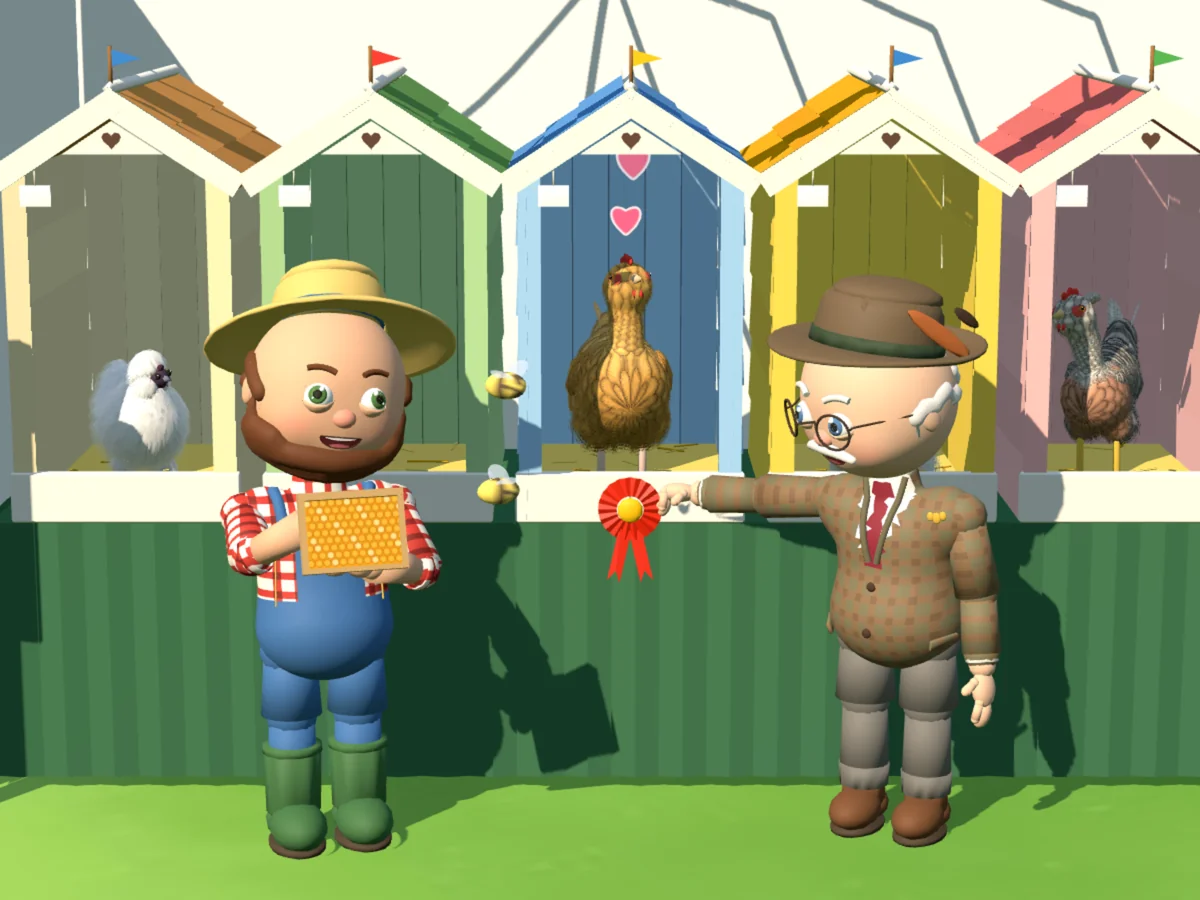
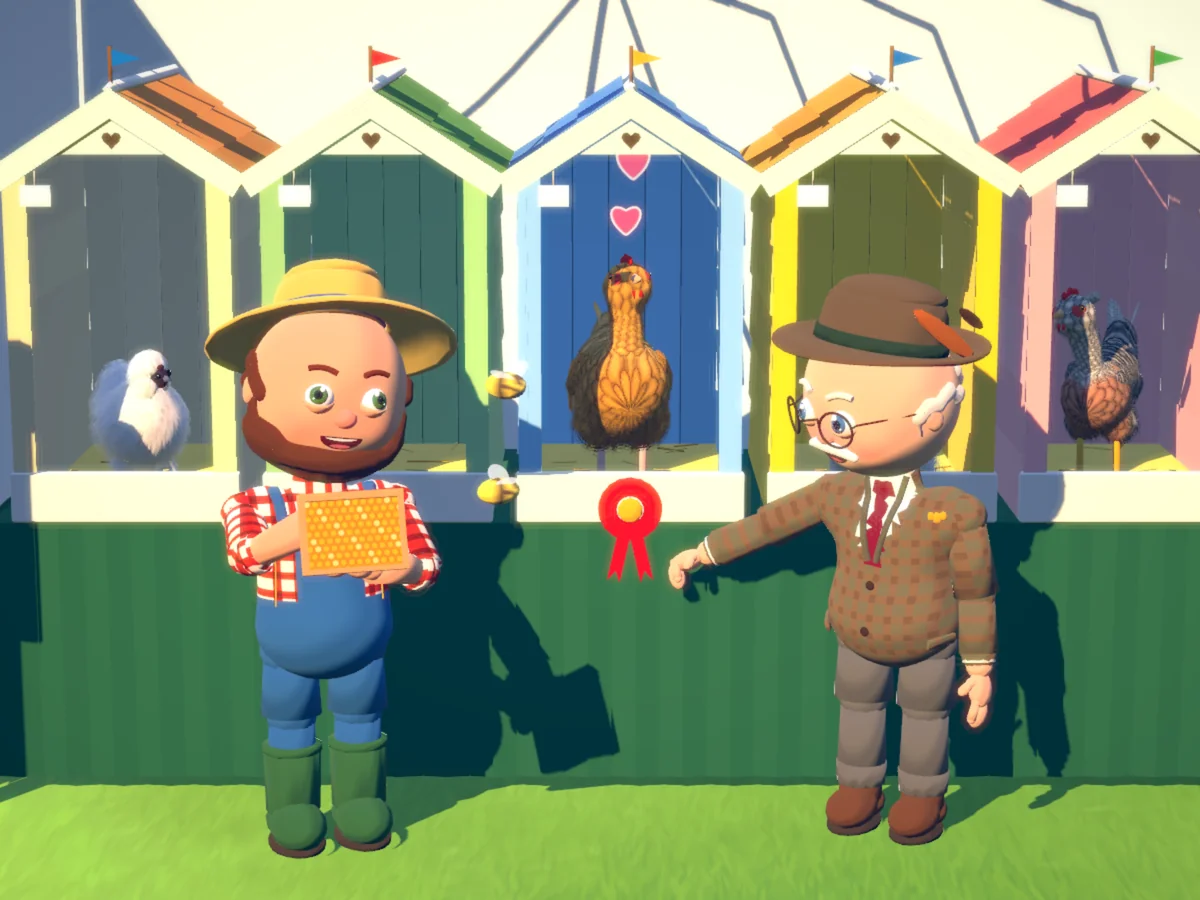
The fox's welcome picture restaged in mid-bound; the five welcome pictures in the Painted look
Claude-Session: https://claude.ai/code/session_019sVPTkk8NWGF5qLvLgiKew

diff --git a/web3d/src/intro.js b/web3d/src/intro.js
@@ -342,6 +342,8 @@ class Intro {
     this.dress(230, { x0: -3.4, x1: 3.4, z0: -4, z1: 2, clear: [[-1.9, -3.1, 0.1, -1.0], [-1.2, -0.6, 2.2, 1.0]], seed: 15, flowers: 0.45 });
     // the Brave hen, out in front of her coop: chest out, wings up, calling after him
     this.bird('rir', 'hen', null, -1.12, 0.62, 0.9, A => { A.proud = 1; A.flap = 1; A.t = 2.3; A.kawk = 1; A.lookYaw = 0.15; A.lookTilt = -0.05; });
+    // (10 Nov 2026, Audrey: "Can you rework that image the fox has a weird pose": shot a tenth of a second later, intropics.mjs T 3.1 for this scene: Rusty stretched out in mid-bound,
+    // his legs apart, where he was caught with them bunched under him; his head turned back less far)
     // Rusty and Biscuit at a run, a paw on the ground (each where the picture wants him at the moment it's shot, SHOT seconds in, having run
     // there at his pace): Rusty looks back over his shoulder, ears back, his brush streaming; Biscuit after him, grinning
     const C = this.ctx, SHOT = 3, fam = { r: this.r, joints: C.beastJoints, out: true, group: new THREE.Group(), foxes: [], visible: () => true };
@@ -351,8 +353,8 @@ class Intro {
       f.at = t => { const back = v * (SHOT - t); f.pos.set(x - Math.sin(heading) * back, 0, z - Math.cos(heading) * back); };
       f.at(0); f.face = face; return f;
     };
-    runner('fox', 'Rusty', 'dad', 1.2, 0.3, 1.4, 1.62, A => { A.lookYawGoal = -1.2; A.lookPitchGoal = 0.05; A.earsGoal = -0.7; A.tailUpGoal = 0.3; A.mouthGoal = 0.15; });
-    runner('collie', 'Biscuit', 'dog', -0.2, 0.75, 1.45, 1.66, A => { A.tailUpGoal = 0.7; A.wagGoal = 0.5; A.mouthGoal = 0.7; A.earsGoal = 0.6; A.wideGoal = 0.3; });
+    runner('fox', 'Rusty', 'dad', 1.04, 0.27, 1.4, 1.62, A => { A.lookYawGoal = -0.75; A.lookPitchGoal = 0.05; A.earsGoal = -0.7; A.tailUpGoal = 0.3; A.mouthGoal = 0.15; });
+    runner('collie', 'Biscuit', 'dog', -0.36, 0.72, 1.45, 1.66, A => { A.tailUpGoal = 0.7; A.wagGoal = 0.5; A.mouthGoal = 0.7; A.earsGoal = 0.6; A.wideGoal = 0.3; });
     fam.nextTask = f => T.wait(1e6, (f, t, dt) => { f.at(Math.min(this.t, SHOT + 0.5)); f.face(f.A); });
     this.restarts = [() => { for (const f of fam.foxes) { f.at(0); f.lastPos = null; } }];
     this.ticks.push(dt => { if (dt > 0) for (const f of fam.foxes) f.update(dt); });

diff --git a/web3d/README.md b/web3d/README.md
@@ -4906,3 +4906,9 @@ KEEPFISH, SEED). All nine built:
   a card keeps its place).
 - Tests: `pantrytest` (EN/FR); `eggtest`, `ordertest`, `awaytest`, `cuddletest`, `wheattest`, `nettest`, `hinttest`,
   `firstdaytest` brought in line.
+
+## The fox's welcome picture restaged (10 Nov 2026, 21:05; Audrey: "Can you rework that image the fox has a weird pose")
+Rusty was caught with his legs bunched under him and his head twisted far back. The scene (intro.js `fox`) is now shot a
+tenth of a second later (intropics.mjs: T 3.1 for scene 5): he is stretched out in mid-bound, legs apart, glancing back
+less far, Biscuit after him. No model changed, only the moment and the turn of his head. All five welcome pictures were
+shot again so they share the game's Painted look (`intro/*.webp`, the sign of picture 3 in six languages).
